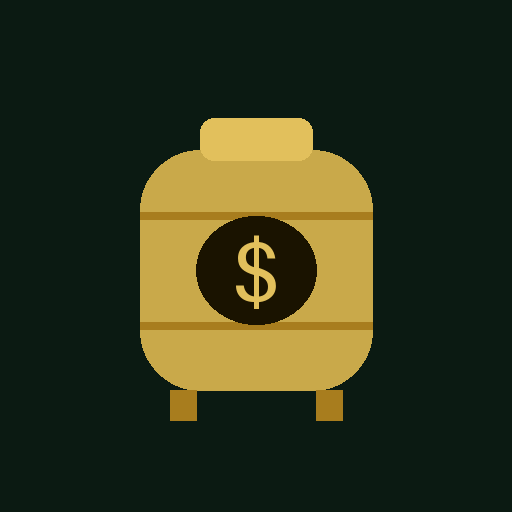
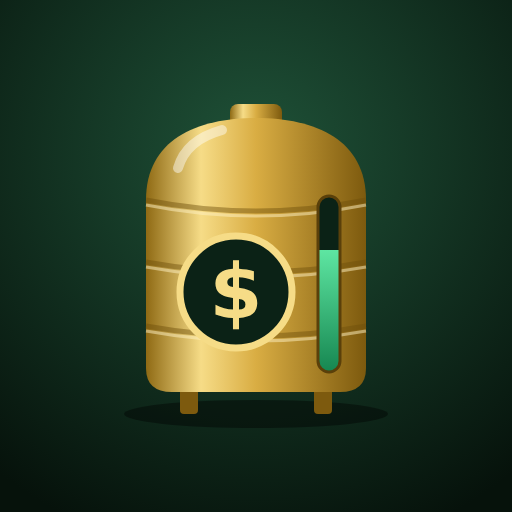
Tandon Dollar: ikon baru (tandon emas halus + jendela level)
Claude-Session: https://claude.ai/code/session_013wDjUTCggzNbW2focdLqUN

diff --git a/tandon/index.html b/tandon/index.html
@@ -3,12 +3,12 @@
 <head>
 <meta charset="UTF-8">
 <meta name="viewport" content="width=device-width, initial-scale=1.0, viewport-fit=cover">
-<meta name="app-version" content="tandon-2026-10-23.1">
+<meta name="app-version" content="tandon-2026-10-23.2">
 <meta name="theme-color" content="#0b1a12">
 <title>Tandon Dollar</title>
-<link rel="icon" href="ikon-192.png">
-<link rel="apple-touch-icon" href="ikon-192.png">
-<link rel="manifest" href="manifest.json">
+<link rel="icon" href="ikon-192.png?v=2">
+<link rel="apple-touch-icon" href="ikon-192.png?v=2">
+<link rel="manifest" href="manifest.json?v=2">
 <script src="https://cdn.jsdelivr.net/npm/@supabase/supabase-js@2.117.1"></script>
 <style>
   /* Tandon Dollar: aplikasi terpisah dari kasir. Gaya sama dengan Pusat Kendali Owner (gelap + emas). */
